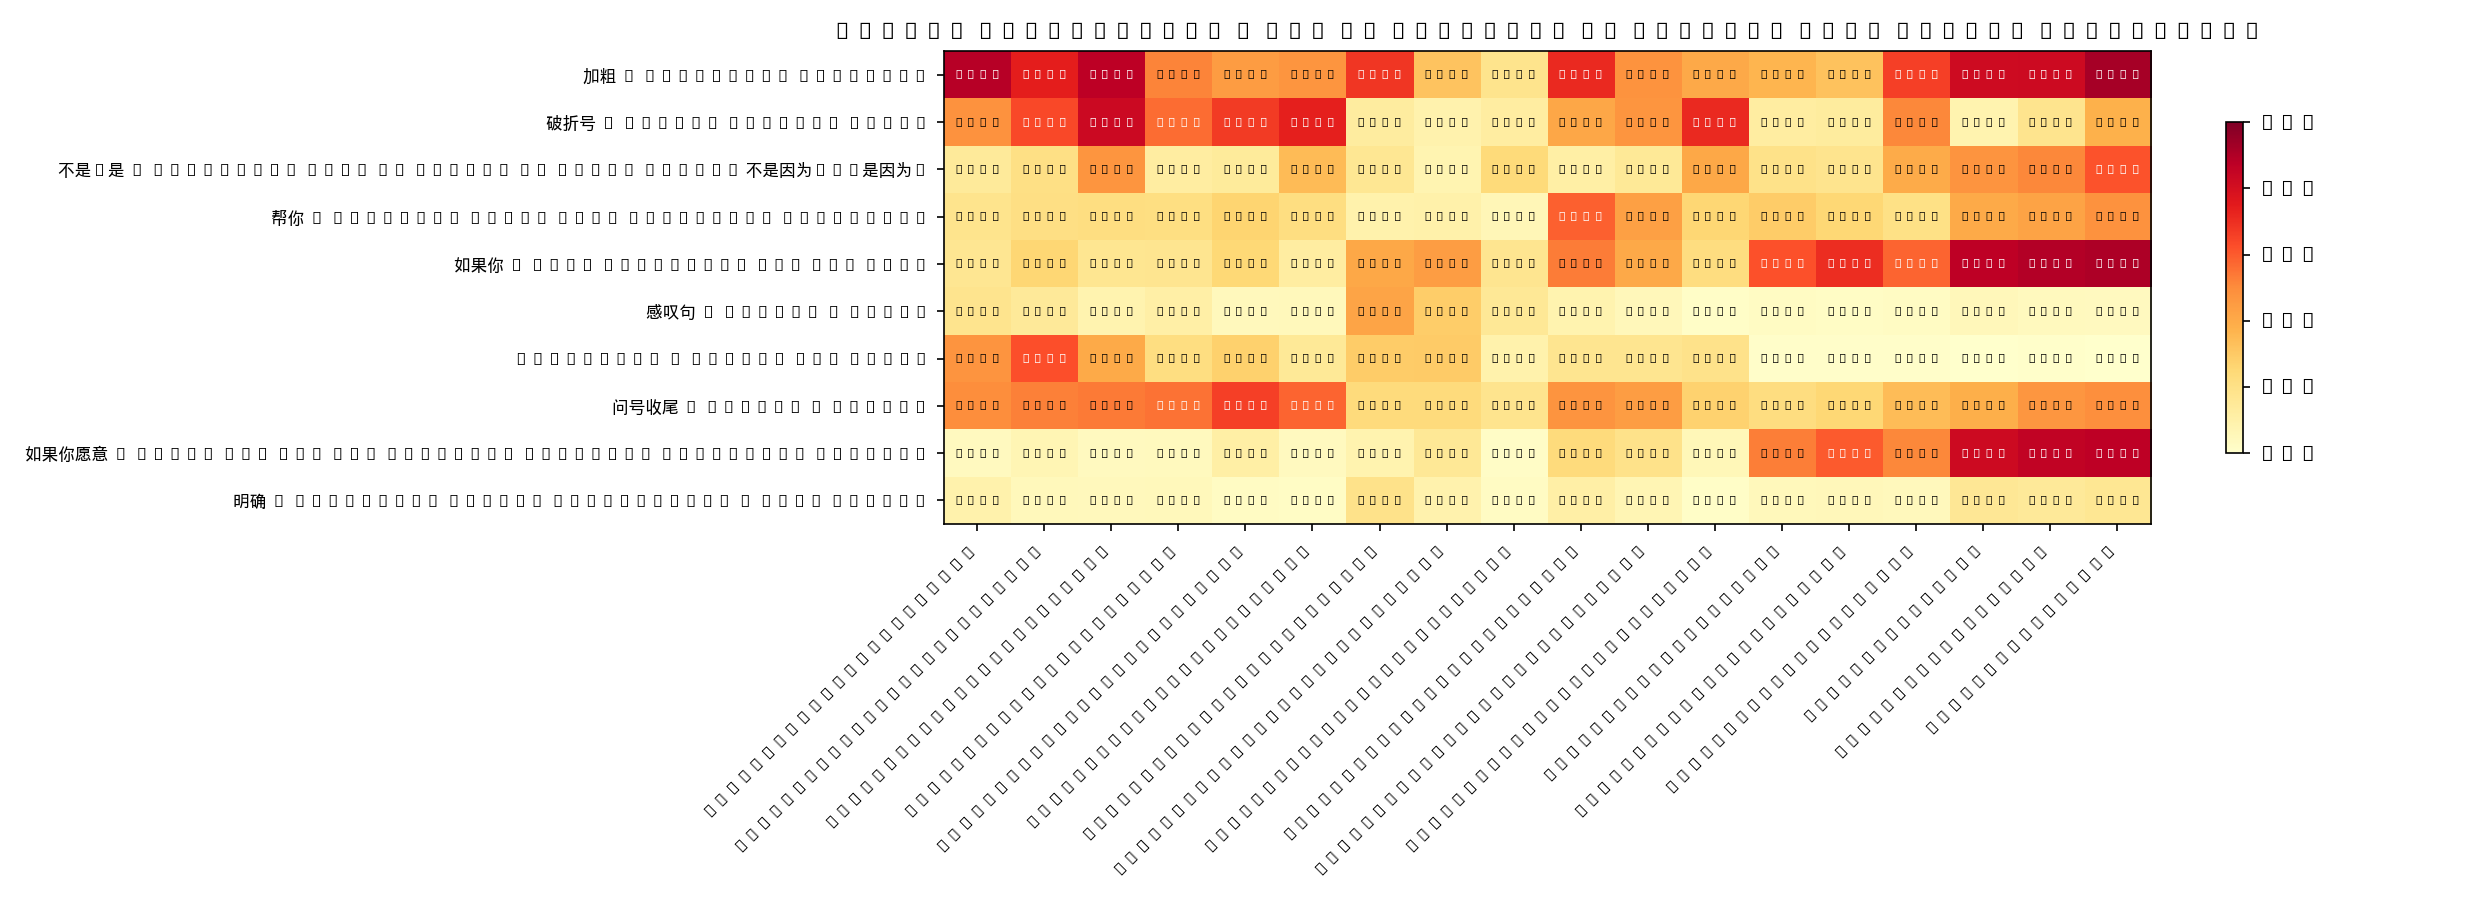
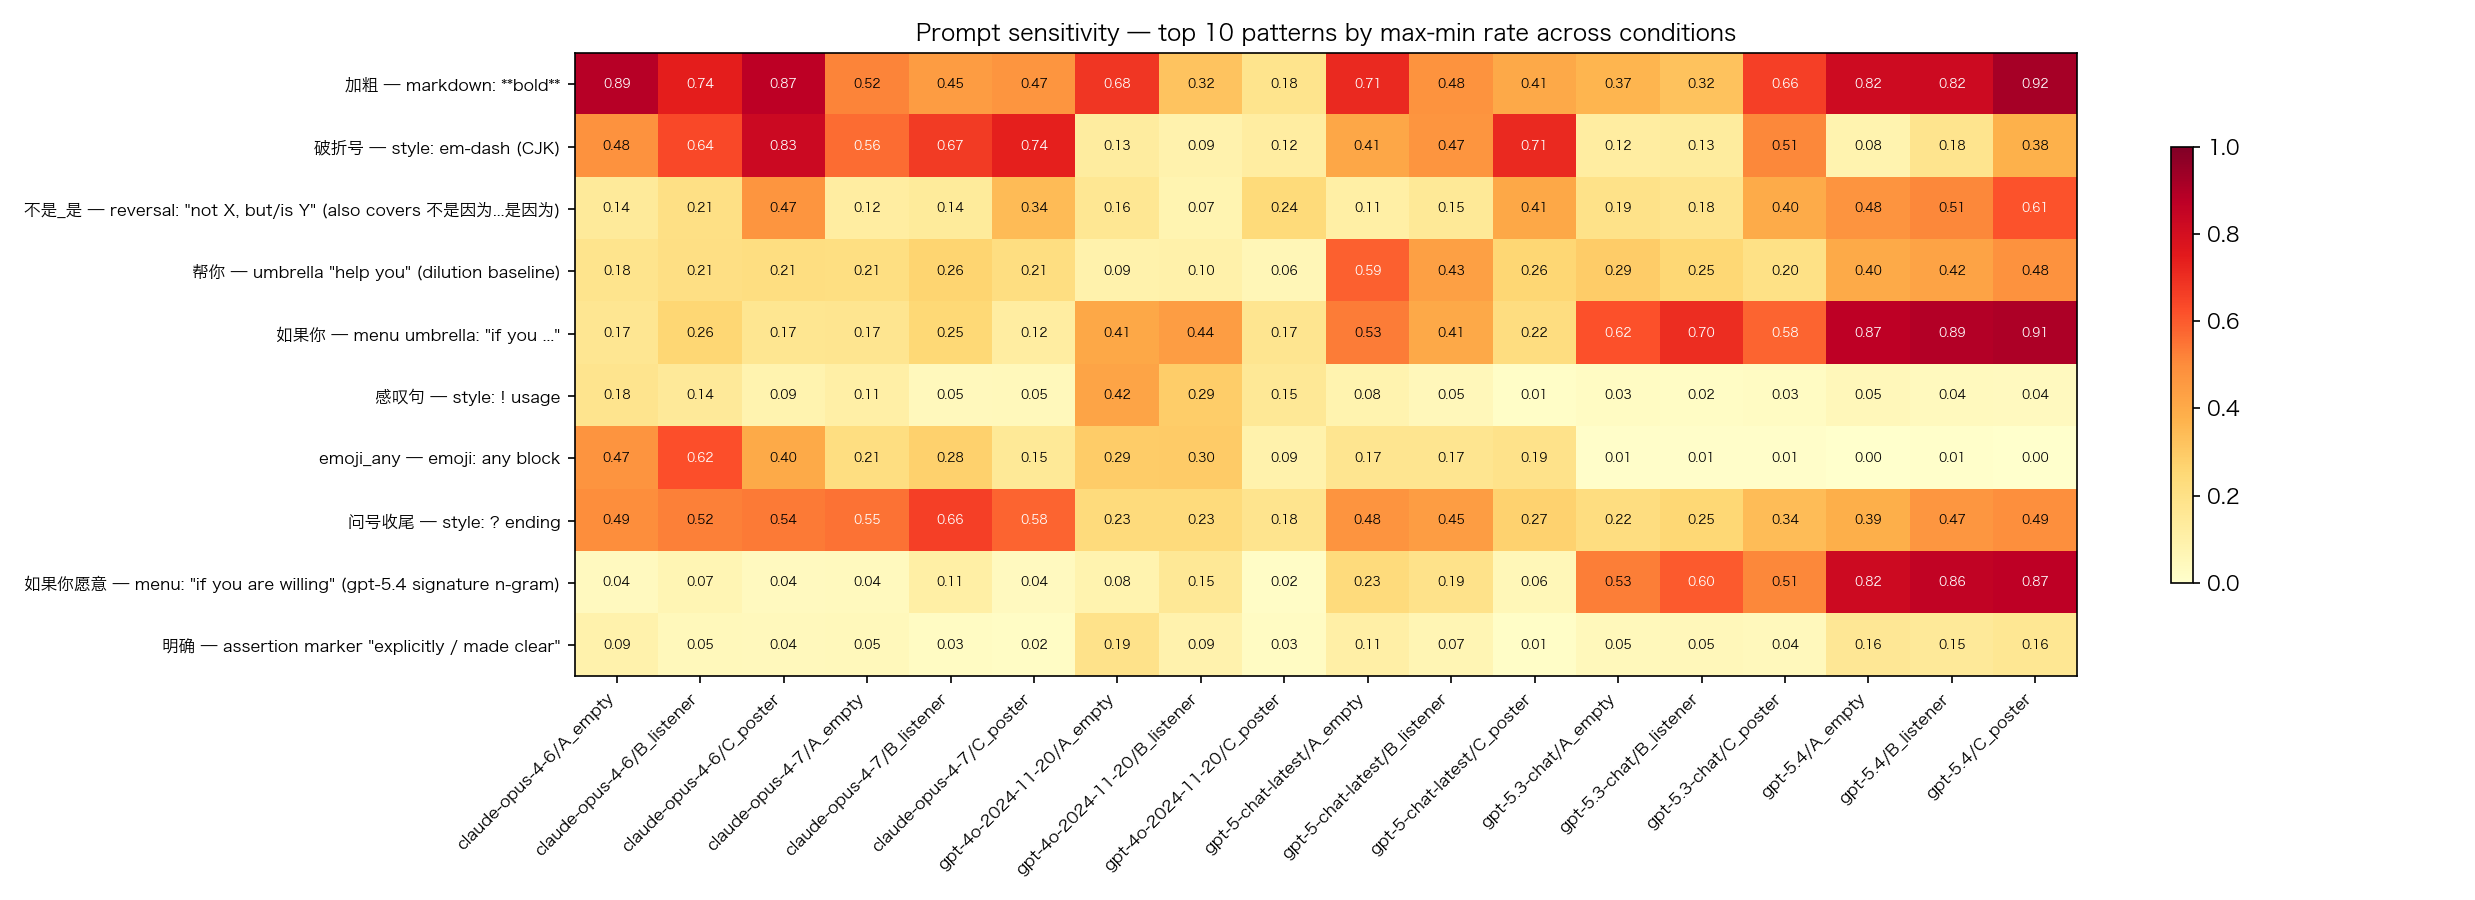
Fix CJK font fallback on macOS/Windows for figure rendering
configure_cjk_font in src/visualize.py and configure_font in
scripts/patterns_by_category.py only searched Linux font paths
(arphic/droid), so on macOS/Windows matplotlib silently fell back to
DejaVu Sans and rendered all CJK labels as tofu (.notdef boxes).
Add macOS paths (Hiragino Sans GB, STHeiti, Songti, Arial Unicode)
and Windows paths (msyh, simhei), and regenerate all 4 figures.

diff --git a/src/visualize.py b/src/visualize.py
@@ -30,11 +30,22 @@ FIG = ANA / "figures"
 
 def configure_cjk_font():
     """Find a single font file that has BOTH Latin and CJK, register it."""
-    # prefer fonts that cover both CJK and Latin in one file (arphic family do)
+    # prefer fonts that cover both CJK and Latin in one file
     preferred_paths = [
+        # macOS
+        "/System/Library/Fonts/Hiragino Sans GB.ttc",
+        "/System/Library/Fonts/STHeiti Medium.ttc",
+        "/System/Library/Fonts/STHeiti Light.ttc",
+        "/System/Library/Fonts/Supplemental/Songti.ttc",
+        "/System/Library/Fonts/Supplemental/Arial Unicode.ttf",
+        # Linux (arphic / droid cover both CJK and Latin)
         "/usr/share/fonts/truetype/arphic/uming.ttc",
         "/usr/share/fonts/truetype/arphic-gbsn00lp/gbsn00lp.ttf",
         "/usr/share/fonts/truetype/droid/DroidSansFallbackFull.ttf",
+        "/usr/share/fonts/opentype/noto/NotoSansCJK-Regular.ttc",
+        # Windows
+        "C:/Windows/Fonts/msyh.ttc",
+        "C:/Windows/Fonts/simhei.ttf",
     ]
     chosen = next((p for p in preferred_paths if Path(p).exists()), None)
     if chosen:

diff --git a/scripts/patterns_by_category.py b/scripts/patterns_by_category.py
@@ -36,8 +36,20 @@ KEY_PATTERNS = ["加粗", "不是_是", "接住", "给你X", "如果你愿意"]
 
 def configure_font():
     for p in [
+        # macOS
+        "/System/Library/Fonts/Hiragino Sans GB.ttc",
+        "/System/Library/Fonts/STHeiti Medium.ttc",
+        "/System/Library/Fonts/STHeiti Light.ttc",
+        "/System/Library/Fonts/Supplemental/Songti.ttc",
+        "/System/Library/Fonts/Supplemental/Arial Unicode.ttf",
+        # Linux
         "/usr/share/fonts/truetype/arphic/uming.ttc",
         "/usr/share/fonts/truetype/arphic-gbsn00lp/gbsn00lp.ttf",
+        "/usr/share/fonts/truetype/droid/DroidSansFallbackFull.ttf",
+        "/usr/share/fonts/opentype/noto/NotoSansCJK-Regular.ttc",
+        # Windows
+        "C:/Windows/Fonts/msyh.ttc",
+        "C:/Windows/Fonts/simhei.ttf",
     ]:
         if Path(p).exists():
             fm.fontManager.addfont(p)
